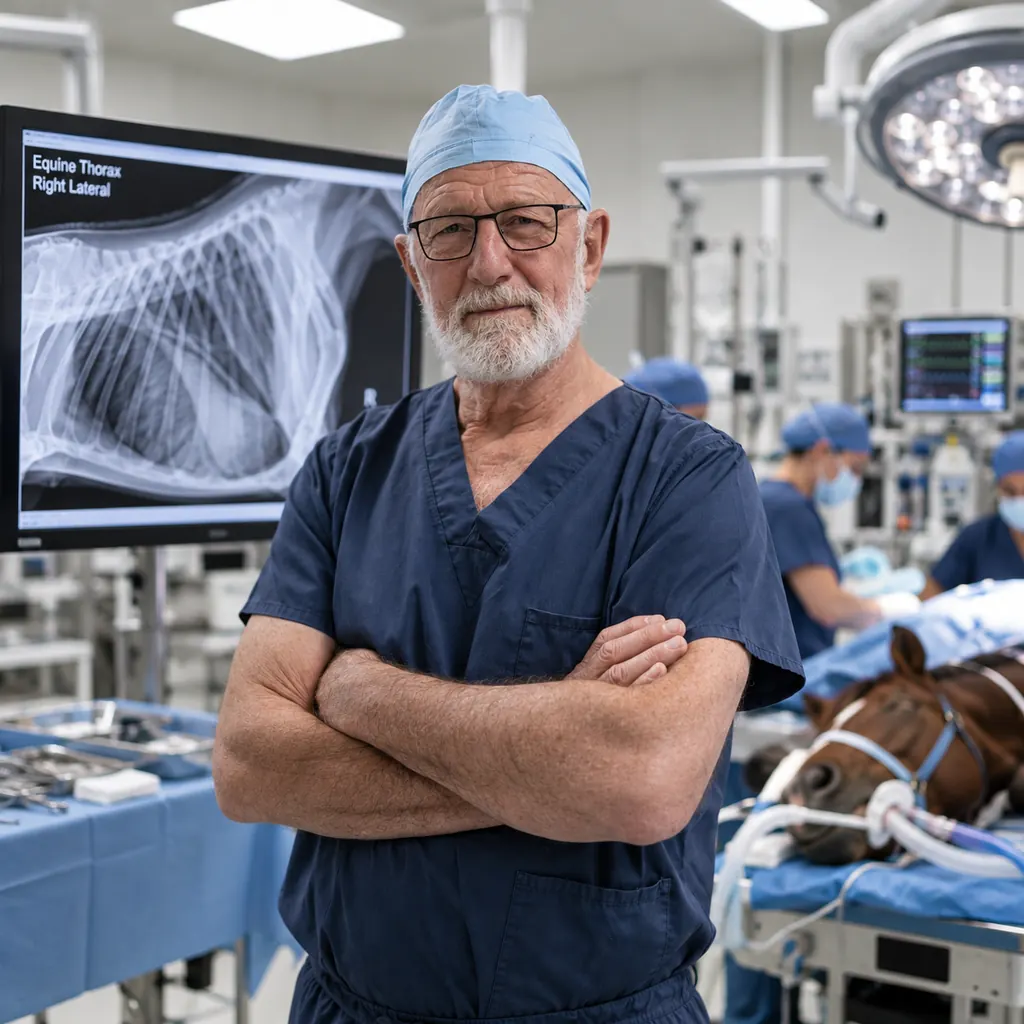
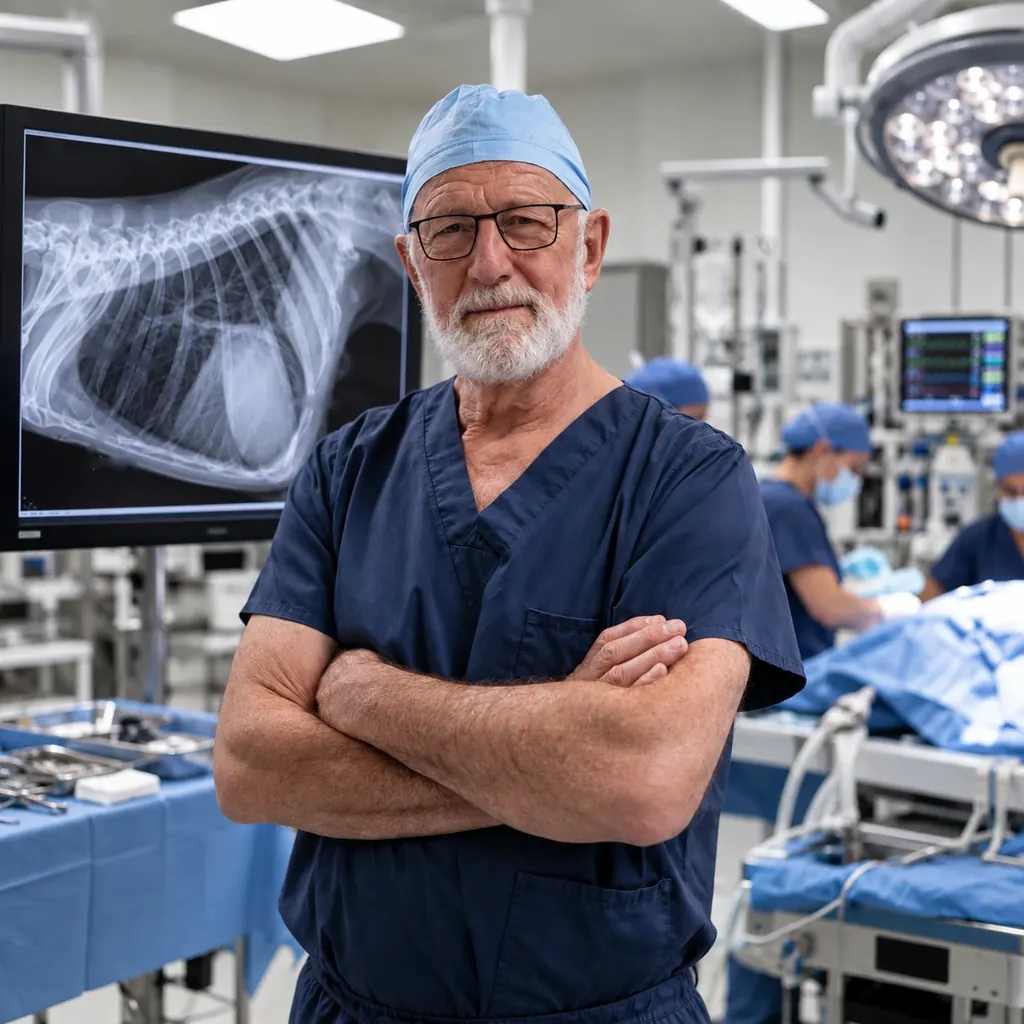
feat(vai.vet): new surgeon picture without the horse, with a clean chest radiograph (founder-supplied)
surgeon-theatre (About, "Built for the breadth of the profession") is replaced by the founder's corrected picture: no horse on the table, and a canine thorax radiograph on the monitor. The title, the Lung / Heart / Diaphragm labels with their arrows and the "R" marker are removed from the radiograph at the founder's request (local fill, screen frame preserved). Alt text updated; image version bumped to 20261010c.

diff --git a/src/lib/photography/library.ts b/src/lib/photography/library.ts
@@ -39,8 +39,8 @@ export interface PhotoEntry {
 
 export const PHOTO_WIDTHS = [480, 800, 1024] as const;
 export const PHOTO_BASE = '/photography/library';
-/** Bump when library files are replaced in place: it is appended to every image URL (?v=) so browsers and the CDN fetch the new files instead of serving a cached copy for hours. Last bump: 2026-10-10 (b), the horse illustration on the screen in seminar-discussion was blurred at the founder's request. */
-export const PHOTO_VERSION = '20261010b';
+/** Bump when library files are replaced in place: it is appended to every image URL (?v=) so browsers and the CDN fetch the new files instead of serving a cached copy for hours. Last bump: 2026-10-10 (c), surgeon-theatre was replaced with the founder's corrected picture (no horse, canine thorax radiograph). */
+export const PHOTO_VERSION = '20261010c';
 
 
 
@@ -75,7 +75,7 @@ export const PHOTOS: readonly PhotoEntry[] = [
   { id: 'educator-anatomy-monitor', use: 'diagnostic', ready: true, alt: 'An educator standing by a monitor displaying an anatomical illustration', focus: { portrait: '52% 50%', landscape: '50% 40%' } },
   { id: 'man-whiteboard-classroom', use: 'profession', ready: true, alt: 'A professional leaning against a whiteboard with a busy teaching room behind', focus: { portrait: '62% 50%', landscape: '50% 38%' } },
   { id: 'senior-man-screen', use: 'profession', ready: true, alt: 'A senior professional beside a wall screen showing an anatomical diagram', focus: { portrait: '58% 50%', landscape: '50% 30%' } },
-  { id: 'surgeon-theatre', use: 'profession', ready: true, alt: 'A surgeon in scrubs standing with a clinical team in an operating theatre', focus: { portrait: '52% 50%', landscape: '50% 32%' } },
+  { id: 'surgeon-theatre', use: 'profession', ready: true, alt: 'A surgeon in scrubs standing with his arms crossed in an operating theatre, with a chest radiograph on a monitor behind him and a clinical team at work', focus: { portrait: '52% 50%', landscape: '50% 32%' }, note: 'Replaced 2026-10-10 with the founder-supplied corrected picture (the horse on the table removed; the monitor shows a canine thorax radiograph with all lettering and arrows removed at the founder's request).' },
   { id: 'academy-expert-led', use: 'education', ready: true, alt: 'A veterinarian in a white coat and clinical staff in scrubs gathered around dogs on a clinic floor', focus: { portrait: '50% 30%', landscape: '50% 24%' }, note: 'Supplied by the founder 2026-10-08 as the large image of /academy/ Expert-led education. Same photograph as the library entry clinic-floor-dogs, delivered from the supplied file (design-assets/photography-masters/academy-expert-led-master.webp). No attribution required.' },
   { id: 'professor-seminar', use: 'education', ready: true, alt: 'A professor in a white coat discussing a case with seated students', focus: { portrait: '52% 50%', landscape: '50% 34%' } },
   { id: 'clinic-floor-dogs', use: 'animal', ready: true, alt: 'Veterinary staff and a vet examining dogs together on a clinic floor', focus: { portrait: '44% 50%', landscape: '50% 45%' } },
